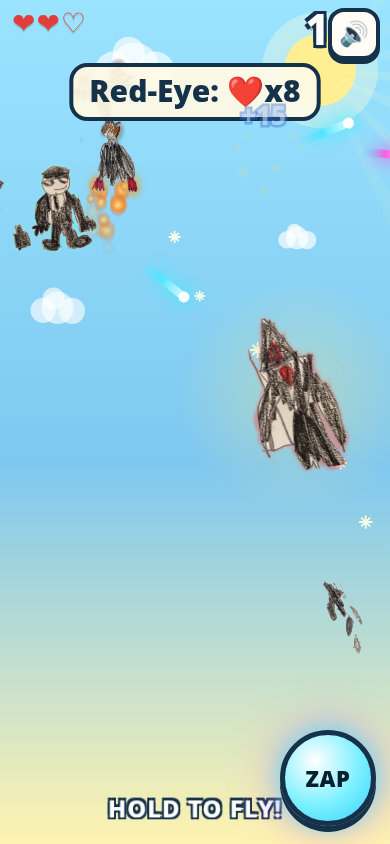
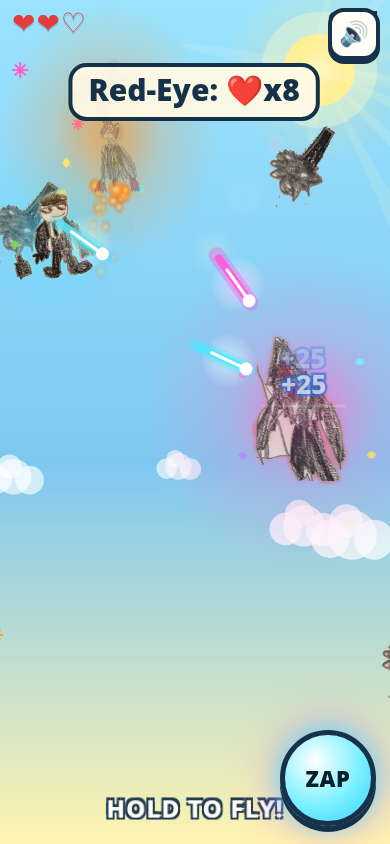
Crank the AI glow in Sky Battle: auras, rainbow trails, neon zap flashes
Stronger auras on Flame Guy, Blaster Guy and Red-Eye, holographic sparkles,
brighter zaps with hit bursts, crate shimmer, and a soft sun flare.

diff --git a/game.js b/game.js
@@ -1188,6 +1188,7 @@
       p.vy = 0;
     }
     setZapBtn(true);
+    world.zapFlashes = [];
     world.clouds = (world.clouds || []).slice(0, 4);
     for (const c of world.clouds) c.s = (c.s || 1) * 0.65;
     world.obstacles = [
@@ -1213,6 +1214,43 @@
     else spawnSkyItem("crate", W + 50, y);
   }
 
+  const AI_SPARKLE_COLS = ["#ff5ad5", "#7af0ff", "#ffe566", "#b388ff", "#7ed957", "#ff9a2a"];
+
+  function emitRainbowSpark(x, y, vx, vy) {
+    if ((world.particles || []).length > 36) return;
+    const col = AI_SPARKLE_COLS[(Math.random() * AI_SPARKLE_COLS.length) | 0];
+    world.particles.push({
+      x: x + rand(-6, 6),
+      y: y + rand(-6, 6),
+      vx: vx != null ? vx : rand(-40, 40),
+      vy: vy != null ? vy : rand(-20, 90),
+      t: 0,
+      life: rand(0.28, 0.55),
+      kind: "sparkle",
+      r: rand(3.5, 7.2),
+      color: col,
+    });
+  }
+
+  function spawnZapFlash(x, y, helper) {
+    world.zapFlashes = world.zapFlashes || [];
+    if (world.zapFlashes.length > 8) world.zapFlashes.shift();
+    world.zapFlashes.push({ x: x, y: y, t: 0, life: 0.3, helper: !!helper });
+  }
+
+  function drawAura(x, y, r, rgb, strength) {
+    const s = strength == null ? 0.58 : strength;
+    const pulse = 0.84 + Math.sin(world.time * 5.4 + x * 0.02) * 0.16;
+    const g = ctx.createRadialGradient(x, y, r * 0.12, x, y, r);
+    g.addColorStop(0, "rgba(" + rgb + "," + (s * pulse) + ")");
+    g.addColorStop(0.42, "rgba(" + rgb + "," + (s * 0.38 * pulse) + ")");
+    g.addColorStop(1, "rgba(" + rgb + ",0)");
+    ctx.fillStyle = g;
+    ctx.beginPath();
+    ctx.arc(x, y, r, 0, Math.PI * 2);
+    ctx.fill();
+  }
+
   function emitThruster(p) {
     const { drawH, drawW } = playerSize(p);
     world.particles.push({
@@ -1225,6 +1263,7 @@
       kind: "flame",
       r: rand(6, 12),
     });
+    if (Math.random() < 0.45) emitRainbowSpark(p.x, p.y + drawH * 0.36, rand(-50, 50), rand(60, 160));
   }
 
   function sfxZap() {
@@ -1279,6 +1318,9 @@
       re.hurt = 0.4;
       if (world.players[0]) addScore(world.players[0], 25, re.x, re.y);
       burst(re.x, re.y);
+      spawnZapFlash(re.x, re.y, false);
+      emitRainbowSpark(re.x, re.y, rand(-80, 80), rand(-80, 80));
+      emitRainbowSpark(re.x, re.y, rand(-80, 80), rand(-80, 80));
     }
     world.shake = 8;
     beep(300, 0.08, "square", 0.07);
@@ -1384,6 +1426,8 @@
           z.hit = true;
           if (p0) addScore(p0, 15, o.x, o.y);
           burst(o.x, o.y);
+          spawnZapFlash(o.x, o.y, true);
+          emitRainbowSpark(o.x, o.y, rand(-70, 70), rand(-60, 40));
           sfxCollect();
         }
       }
@@ -1449,6 +1493,15 @@
       pop.y -= 50 * dt;
     }
     world.popups = world.popups.filter((pop) => pop.t < 0.7);
+    for (const f of (world.zapFlashes || [])) f.t += dt;
+    world.zapFlashes = (world.zapFlashes || []).filter((f) => f.t < f.life);
+    if (p0 && Math.random() < 0.14) {
+      const ps = playerSize(p0);
+      emitRainbowSpark(p0.x, p0.y + ps.drawH * 0.15, rand(-40, 40), rand(20, 100));
+    }
+    if (world.helper && Math.random() < 0.1) {
+      emitRainbowSpark(world.helper.x, world.helper.y, rand(-50, 50), rand(-20, 80));
+    }
     world._hudT = (world._hudT || 0) + dt;
     if (world._hudT > 0.15) { world._hudT = 0; updateHud(); }
   }
@@ -1458,7 +1511,7 @@
     ctx.save();
     for (let i = 0; i < 7; i++) {
       const a = -0.85 + i * 0.3 + Math.sin(world.time * 0.45 + i) * 0.04;
-      const pulse = 0.1 + Math.sin(world.time * 2.1 + i) * 0.035;
+      const pulse = 0.12 + Math.sin(world.time * 2.1 + i) * 0.04;
       ctx.beginPath();
       ctx.moveTo(sx, sy);
       ctx.fillStyle = "rgba(255,255,210," + pulse + ")";
@@ -1467,12 +1520,46 @@
       ctx.closePath();
       ctx.fill();
     }
+    // soft lens flare from the sun
+    const pulse = 0.55 + Math.sin(world.time * 2.4) * 0.15;
+    let g = ctx.createRadialGradient(sx, sy, 2, sx, sy, 96);
+    g.addColorStop(0, "rgba(255,255,255," + (0.62 * pulse) + ")");
+    g.addColorStop(0.22, "rgba(255,240,160,0.32)");
+    g.addColorStop(1, "rgba(255,220,100,0)");
+    ctx.fillStyle = g;
+    ctx.beginPath();
+    ctx.arc(sx, sy, 96, 0, Math.PI * 2);
+    ctx.fill();
+    ctx.globalAlpha = 0.24 * pulse;
+    ctx.fillStyle = "#fffce8";
+    ctx.beginPath();
+    ctx.ellipse(sx, sy, 140, 7, 0.18, 0, Math.PI * 2);
+    ctx.fill();
+    ctx.beginPath();
+    ctx.ellipse(sx, sy, 8, 74, 0.12, 0, Math.PI * 2);
+    ctx.fill();
+    ctx.globalAlpha = 1;
+    const cx = W * 0.42, cy = H * 0.4;
+    const flareCols = ["rgba(255,160,220,0.26)", "rgba(120,230,255,0.22)", "rgba(255,255,180,0.2)"];
+    for (let i = 0; i < 3; i++) {
+      const tt = 0.28 + i * 0.2;
+      const x = sx + (cx - sx) * tt;
+      const y = sy + (cy - sy) * tt;
+      const rr = 11 + i * 7;
+      const og = ctx.createRadialGradient(x, y, 0, x, y, rr);
+      og.addColorStop(0, flareCols[i]);
+      og.addColorStop(1, "rgba(255,255,255,0)");
+      ctx.fillStyle = og;
+      ctx.beginPath();
+      ctx.arc(x, y, rr, 0, Math.PI * 2);
+      ctx.fill();
+    }
     ctx.restore();
-    for (let i = 0; i < 12; i++) {
+    for (let i = 0; i < 10; i++) {
       const x = ((i * 83 + world.time * 28) % (W + 50)) - 20;
       const y = 70 + ((i * 113) % (H - 220));
       const tw = 0.45 + Math.sin(world.time * 5.2 + i * 1.3) * 0.55;
-      if (tw > 0.25) drawTwinkle(x, y, 3 + tw * 4.2, "rgba(255,255,230,0.92)");
+      if (tw > 0.22) drawTwinkle(x, y, 3 + tw * 4.4, AI_SPARKLE_COLS[i % AI_SPARKLE_COLS.length]);
     }
   }
 
@@ -1482,9 +1569,16 @@
     const sz = helperSize();
     if (!sz.img) return;
     const bob = Math.sin(world.time * 4.4) * 5;
+    const hx = hlp.x, hy = hlp.y + bob;
     ctx.save();
-    ctx.translate(hlp.x, hlp.y + bob);
+    drawAura(hx, hy, Math.max(sz.w, sz.h) * 0.95, sz.useBlaster ? "80,220,255" : "255,150,40", 0.6);
+    ctx.translate(hx, hy);
     ctx.rotate(Math.sin(world.time * 3.2) * 0.06);
+    for (let i = 0; i < 3; i++) {
+      const a = world.time * 3.4 + i * 2.1;
+      const rr = Math.max(sz.w, sz.h) * 0.42;
+      drawTwinkle(Math.cos(a) * rr, Math.sin(a) * rr, 3.4, AI_SPARKLE_COLS[(i + 2) % AI_SPARKLE_COLS.length]);
+    }
     ctx.drawImage(sz.img, -sz.w / 2, -sz.h / 2, sz.w, sz.h);
     ctx.restore();
   }
@@ -1492,26 +1586,70 @@
   function drawZaps() {
     for (const z of (world.zaps || [])) {
       const ang = Math.atan2(z.vy, z.vx);
+      const hot = z.fromHelper;
       ctx.save();
       ctx.translate(z.x, z.y);
       ctx.rotate(ang);
-      ctx.shadowColor = z.fromHelper ? "#3cf0ff" : "#ff4de0";
-      ctx.shadowBlur = 18;
-      const g = ctx.createLinearGradient(-26, 0, 28, 0);
-      g.addColorStop(0, "rgba(80,230,255,0)");
-      g.addColorStop(0.45, z.fromHelper ? "rgba(80,230,255,0.95)" : "rgba(255,90,220,0.95)");
-      g.addColorStop(1, "rgba(255,255,255,1)");
-      ctx.strokeStyle = g;
-      ctx.lineWidth = 8;
+      // soft bloom (no shadowBlur — cheaper on phones)
+      const bloom = ctx.createRadialGradient(8, 0, 0, 8, 0, 28);
+      bloom.addColorStop(0, hot ? "rgba(180,255,255,0.7)" : "rgba(255,180,255,0.7)");
+      bloom.addColorStop(1, "rgba(255,255,255,0)");
+      ctx.fillStyle = bloom;
+      ctx.beginPath();
+      ctx.arc(10, 0, 28, 0, Math.PI * 2);
+      ctx.fill();
+      ctx.strokeStyle = hot ? "rgba(80,230,255,0.35)" : "rgba(255,80,220,0.35)";
+      ctx.lineWidth = 16;
       ctx.lineCap = "round";
       ctx.beginPath();
-      ctx.moveTo(-22, 0);
-      ctx.lineTo(26, 0);
+      ctx.moveTo(-28, 0);
+      ctx.lineTo(30, 0);
+      ctx.stroke();
+      ctx.strokeStyle = hot ? "rgba(80,230,255,0.9)" : "rgba(255,90,220,0.9)";
+      ctx.lineWidth = 8;
+      ctx.beginPath();
+      ctx.moveTo(-24, 0);
+      ctx.lineTo(28, 0);
+      ctx.stroke();
+      ctx.strokeStyle = "#fff";
+      ctx.lineWidth = 3.2;
+      ctx.beginPath();
+      ctx.moveTo(-10, 0);
+      ctx.lineTo(28, 0);
       ctx.stroke();
       ctx.fillStyle = "#fff";
       ctx.beginPath();
-      ctx.arc(26, 0, 5.5, 0, Math.PI * 2);
+      ctx.arc(28, 0, 6.5, 0, Math.PI * 2);
       ctx.fill();
+      ctx.restore();
+    }
+  }
+
+  function drawZapFlashes() {
+    for (const f of (world.zapFlashes || [])) {
+      const u = f.t / f.life;
+      const a = 1 - u;
+      const r = 14 + u * 52;
+      const col = f.helper ? "120,240,255" : "255,90,220";
+      ctx.save();
+      const g = ctx.createRadialGradient(f.x, f.y, 1, f.x, f.y, r);
+      g.addColorStop(0, "rgba(255,255,255," + (0.95 * a) + ")");
+      g.addColorStop(0.28, "rgba(" + col + "," + (0.72 * a) + ")");
+      g.addColorStop(1, "rgba(" + col + ",0)");
+      ctx.fillStyle = g;
+      ctx.beginPath();
+      ctx.arc(f.x, f.y, r, 0, Math.PI * 2);
+      ctx.fill();
+      ctx.globalAlpha = 0.9 * a;
+      ctx.strokeStyle = "#fff";
+      ctx.lineWidth = 3;
+      ctx.lineCap = "round";
+      ctx.beginPath();
+      ctx.moveTo(f.x - r * 0.72, f.y);
+      ctx.lineTo(f.x + r * 0.72, f.y);
+      ctx.moveTo(f.x, f.y - r * 0.72);
+      ctx.lineTo(f.x, f.y + r * 0.72);
+      ctx.stroke();
       ctx.restore();
     }
   }
@@ -1523,17 +1661,16 @@
     const squash = 1 + Math.sin(world.time * 3.15) * 0.1;
     const rot = Math.sin(world.time * 2.5) * 0.14 + (re.hurt > 0 ? Math.sin(world.time * 22) * 0.1 : 0);
     ctx.save();
+    drawAura(re.x, re.y, Math.max(w, h) * 0.95, re.hurt > 0 ? "255,120,200" : "255,220,110", 0.62);
     ctx.translate(re.x, re.y);
     ctx.rotate(rot);
     ctx.scale(1 / Math.sqrt(squash), squash);
     if (re.flash > 0) ctx.globalAlpha = 0.55 + Math.sin(world.time * 40) * 0.35;
-    const halo = ctx.createRadialGradient(0, 0, 12, 0, 0, Math.max(w, h) * 0.72);
-    halo.addColorStop(0, "rgba(255,230,130,0.32)");
-    halo.addColorStop(1, "rgba(255,230,130,0)");
-    ctx.fillStyle = halo;
-    ctx.beginPath();
-    ctx.arc(0, 0, Math.max(w, h) * 0.72, 0, Math.PI * 2);
-    ctx.fill();
+    for (let i = 0; i < 4; i++) {
+      const a = world.time * 2.6 + i * 1.6;
+      const rr = Math.max(w, h) * (0.46 + Math.sin(world.time * 4 + i) * 0.06);
+      drawTwinkle(Math.cos(a) * rr, Math.sin(a) * rr * 0.85, 3.8, AI_SPARKLE_COLS[i % AI_SPARKLE_COLS.length]);
+    }
     ctx.drawImage(redEyeImg, -w / 2, -h / 2, w, h);
     ctx.restore();
   }
@@ -3026,7 +3163,7 @@
       if (isSkyMode()) for (const tk of world.tickles) drawTickle(tk);
       if (isChaseMode() || isParkourMode()) drawChasers();
       if (isWestMode()) drawBanditAndLasso();
-      if (isSkyBattleMode()) { drawSkyHelper(); drawRedEyeBoss(); drawZaps(); }
+      if (isSkyBattleMode()) { drawSkyHelper(); drawRedEyeBoss(); drawZaps(); drawZapFlashes(); }
       for (const plr of world.players) drawPlayer(plr);
       if (isWestMode()) drawBanditLives();
       if (isSkyBattleMode()) drawRedEyeLives();
@@ -3465,6 +3602,15 @@
     ctx.translate(p.x, p.y + bob);
     ctx.rotate(rot);
     ctx.scale(sx, sy);
+    if (isSkyBattleMode() && ch && (ch.id === "flame" || ch.id === "blaster") && !p.ghost) {
+      const rgb = ch.id === "flame" ? "255,150,40" : "80,220,255";
+      drawAura(0, 0, Math.max(drawW, drawH) * 0.9, rgb, 0.62);
+      for (let i = 0; i < 4; i++) {
+        const a = world.time * 3.2 + i * 1.6 + p.slot;
+        const rr = Math.max(drawW, drawH) * (0.4 + Math.sin(world.time * 5 + i) * 0.08);
+        drawTwinkle(Math.cos(a) * rr, Math.sin(a) * rr, 3.4, AI_SPARKLE_COLS[i % AI_SPARKLE_COLS.length]);
+      }
+    }
 
     if (ch.zippy && !p.ghost) {
       ctx.save();
@@ -3732,20 +3878,32 @@
       const shine = 0.55 + Math.sin(world.time * 6 + s.x) * 0.45;
       ctx.save();
       ctx.translate(s.x, s.y);
-      const halo = ctx.createRadialGradient(0, 0, 2, 0, 0, s.r * 2.1);
-      halo.addColorStop(0, "rgba(255,255,180," + (0.55 + shine * 0.3) + ")");
+      const halo = ctx.createRadialGradient(0, 0, 2, 0, 0, s.r * 2.7);
+      halo.addColorStop(0, "rgba(255,255,210," + (0.75 + shine * 0.25) + ")");
+      halo.addColorStop(0.4, "rgba(180,140,255," + (0.28 + shine * 0.2) + ")");
       halo.addColorStop(1, "rgba(255,220,80,0)");
       ctx.fillStyle = halo;
       ctx.beginPath();
-      ctx.arc(0, 0, s.r * 2.1, 0, Math.PI * 2);
+      ctx.arc(0, 0, s.r * 2.7, 0, Math.PI * 2);
       ctx.fill();
+      ctx.strokeStyle = "rgba(255,255,255," + (0.45 + shine * 0.4) + ")";
+      ctx.lineWidth = 3;
+      ctx.beginPath();
+      ctx.arc(0, 0, s.r * 1.55, world.time * 2, world.time * 2 + 1.4);
+      ctx.stroke();
+      ctx.strokeStyle = "rgba(255,160,230," + (0.4 + shine * 0.35) + ")";
+      ctx.beginPath();
+      ctx.arc(0, 0, s.r * 1.7, world.time * -1.6, world.time * -1.6 + 1.1);
+      ctx.stroke();
       if (starburstImg) {
         const h = s.r * 2.6;
         const w = (starburstImg.width / starburstImg.height) * h;
         ctx.rotate(s.rot * 0.15);
         ctx.drawImage(starburstImg, -w / 2, -h / 2, w, h);
       }
-      drawTwinkle(s.r * 0.7, -s.r * 0.8, 5 + shine * 2, "rgba(255,255,230,0.95)");
+      drawTwinkle(s.r * 0.75, -s.r * 0.85, 6 + shine * 3, "#fffce0");
+      drawTwinkle(-s.r * 0.7, s.r * 0.2, 4 + shine * 2, "#7af0ff");
+      drawTwinkle(s.r * 0.15, s.r * 0.8, 3.5, "#ff5ad5");
       ctx.restore();
       return;
     }
